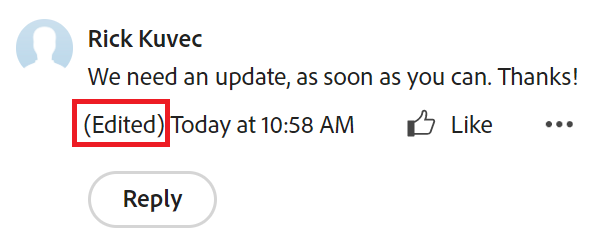
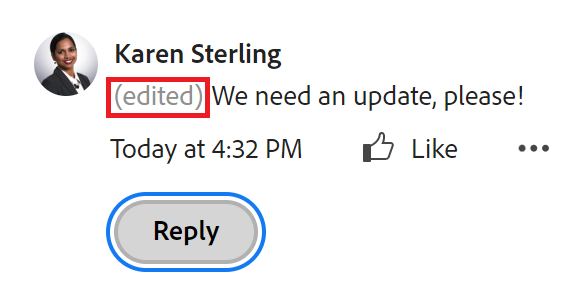
commit-aw-31-may

diff --git a/help/quicksilver/timesheets/create-and-manage-timesheets/log-time.md b/help/quicksilver/timesheets/create-and-manage-timesheets/log-time.md
@@ -344,6 +344,19 @@ In order to log hours on a project, task, or issue, you need to have specific pe
 
 ##### Updates tab{#updates-tab} 
 
+<!--
+
+>[!NOTE]
+>
+>When enabling the new commenting Beta experience, logging time is available only for the following objects in the following environments:
+>
+>* In the Preview and Production environments for issues. 
+>* <span class="preview">In the Preview environment for tasks and projects.</span> 
+>
+>For more information, see [New commenting experience](../../product-announcements/betas/new-commenting-experience-beta/unified-commenting-experience.md).
+
+--> 
+
 The following are required before you can log hours on the Updates tab of a project, task, or issue:
 
 * You must have a Work or Plan license.
@@ -352,6 +365,34 @@ The following are required before you can log hours on the Updates tab of a proj
 
 * If you want to log time directly to a project, your Workfront administrator must enable the Log time directly on projects setting under [!UICONTROL **Timesheet & Hours** ]> [!UICONTROL **Preferences**].  
   For more information about allowing users to log hours directly to projects, see [Configure timesheet and hour preferences](../../administration-and-setup/set-up-workfront/configure-timesheets-schedules/timesheet-and-hour-preferences.md).
+
+To log time in the Updates tab of a project, task, or issue:
+
+1. Go to a project, task, or issue.
+1. In the left panel, select **Updates**.
+1. Click **Log Time**.
+
+   The Enter Hours dialog box displays. 
+   
+   >[!TIP]
+   >
+   >   If your profile's preference is set to log time in days, the Enter Days box displays. 
+   >   
+   >   There is an indication in the upper-right corner of the Enter Days box of how many hours are included in a day. 
+
+   ![](assets/log-time-box-in-updates-stream.png)
+
+1. Specify the following information:
+
+   * **Hour Type**: Select an Hour Type from the drop-down menu, if it is different from the one displayed by default.
+
+     Depending on what hour types are configured in your system, the options here might vary. For more information about configuring hour types, see [Define hour types and availability for timesheets](../../timesheets/create-and-manage-timesheets/define-hour-types-and-availability.md).
+
+   * **Job Role**: (Conditional) If your Workfront or group administrator has enabled the **Assign job roles to hour entries manually** setting, select a **Job Role** from the drop-down menu. The Role specified when you are assigned to the object displays by default. If you are not assigned a Role on the object, your Primary Role displays as the default. For more information on this setting, see the article [Configure timesheet and hour preferences](../../administration-and-setup/set-up-workfront/configure-timesheets-schedules/timesheet-and-hour-preferences.md).
+
+   * **Hours**: Enter the number of hours for the project, task, or issue.
+
+1. Click **Log Time**.
 
 ##### Hours tab{#hours-tab}
 
@@ -365,9 +406,9 @@ Or you must have all of the following:
 * You must have at least Contribute permissions to the project with access to Log Hours. For more information about granting permissions on projects, see [Share a project in Adobe Workfront](../../workfront-basics/grant-and-request-access-to-objects/share-a-project.md).
 * If you want to log time directly to a project, your Workfront administrator must enable the Log time directly on projects setting under Timesheet & Hours > Preferences. For more information about allowing users to log hours directly to projects, see [Configure timesheet and hour preferences](../../administration-and-setup/set-up-workfront/configure-timesheets-schedules/timesheet-and-hour-preferences.md).
 
-To log time on a project, task, or issue:
+To log time in the Hours tab of a project, task, or issue:
 
-1. Navigate to a project, task, or issue.
+1. Go to a project, task, or issue.
 1. In the left panel, select **Hours**.
 1. Click **Log Time**.
 

diff --git a/help/quicksilver/workfront-basics/updating-work-items-and-viewing-updates/updates-tab-overview.md b/help/quicksilver/workfront-basics/updating-work-items-and-viewing-updates/updates-tab-overview.md
@@ -21,9 +21,9 @@ exl-id: f8bf374f-703d-416a-9f36-28a6708620bc
 >For more information about the new commenting experience, see [New commenting experience](../../product-announcements/betas/new-commenting-experience-beta/unified-commenting-experience.md). 
 >
 >You can access the new experience for the following objects:
-> * Issues, when enabling the commenting Beta.
+> * Issues, <!--<span class="preview">projects, tasks, and documents</span>,--> when enabling the commenting Beta. 
 >
->     This functionality is available only for the Updates section of issues, and it is not available for the following areas:
+>     This functionality is available only for the Updates section, and it is not available for the following areas:
 >
 >     * Home
 >     * Summary panel in lists
@@ -103,7 +103,7 @@ Currenlty, you can make comments and reply to updates using the Beta commenting 
      <li><p>Goals</p>
      <p>This is the default experience for goals</p>
      </li> 
-     </ul> </td> 
+      </ul> </td> 
    <td> 
     <ul> 
      <li>Issues</li> 
@@ -112,11 +112,50 @@ Currenlty, you can make comments and reply to updates using the Beta commenting 
  </tbody> 
 </table>
 
+<!--replace table above with this: 
+
+<table style="table-layout:auto"> 
+ <col> 
+ <col> 
+ <tbody> 
+  <tr> 
+   <td> 
+    <ul> 
+     <li><p>Goals</p>
+     <p>This is the default experience for goals</p>
+     </li> 
+     <li><span class="preview">Projects</span></li>
+     </ul> </td> 
+   <td> 
+    <ul> 
+     <li>Issues</li> 
+     <li><span class="preview">Tasks</span></li>
+     <li><span class="preview">Documents</span></li>
+     </ul> </td> 
+  </tr> 
+ </tbody> 
+</table>
+-->
+
 ## Updates that also appear on higher-rank objects
 
-As shown in the following table, replies made to updates on certain objects also appear on the Updates section of higher-ranked objects.
+Comments or replies made to updates on certain objects also appear on the Updates section of higher-ranked objects.
 
 For example, when you add an update to a task, the update appears on the Updates section for the task and on the Updates section for the project containing the task.
+
+<!--
+>[!NOTE]
+>
+>When enabling the new commenting Beta experience, comments display on the following higher-ranking objects and in the following environments: 
+>
+>* Issues, in the Preview and Production environments
+>* <span class="preview">Projects and tasks, in the Preview environment</span>
+>
+>For more information, see [New commenting experience](../../product-announcements/betas/new-commenting-experience-beta/unified-commenting-experience.md). 
+
+--> 
+
+The following table shows the objects whose comments also display on their higher-ranking objects: 
 
 <table style="table-layout:auto"> 
  <col> 

diff --git a/help/quicksilver/product-announcements/betas/new-commenting-experience-beta/new-commenting-beta-experience-release-activity.md b/help/quicksilver/product-announcements/betas/new-commenting-experience-beta/new-commenting-beta-experience-release-activity.md
@@ -21,6 +21,51 @@ For general information on the new commenting beta experience, including a list 
 
 The following sections list features that have been added after the original release, starting with the ones released most recently. 
 
+## Week of May 29, 2023
+
+### New look and feel of the "edited" tag after editing a comment 
+
+When editing a comment in the new commenting Beta experience, an "edited" tag is added to the comment. This tag now has a newer look and feel than the one originally released. The date and time stamps of the comment are those of the original comment. They are not the date and time stamps of when the edit was made.  For more information, see [Update work](../../../workfront-basics/updating-work-items-and-viewing-updates/update-work.md). 
+
+Preview: May 31, 2023
+
+Production: June 1, 2023
+
+<!--
+
+### Comments from children objects now roll up to a parent object  
+
+When enabling the commenting Beta experience, the comments associated with a child object now roll up to the parent object. For example, comments from documents now display on the issue where the documents are attached. For information, see [Update section overview](../../../workfront-basics/updating-work-items-and-viewing-updates/updates-tab-overview.md). 
+
+Preview, for issues, projects, and tasks: June 1, 2023  
+
+Production, for issues: June 1, 2023 
+
+Production, for projects, and tasks: with the 23.3 release 
+--> 
+
+<!--
+### Log time in the new commenting Beta experience 
+
+You can log time for issues, tasks, and projects from the Updates area, when using the new commenting Beta experience. For more information, see [Log time](../../../timesheets/create-and-manage-timesheets/log-time.md).  
+
+Preview: June 1, 2023 
+
+Production: June 15, 2023
+
+-->
+
+<!--
+
+### New commenting Beta experience for projects, tasks, and issues  
+
+The new commenting Beta experience is now available for projects, tasks, and documents. Prior to this update, the commenting Beta experience was available only for issues and goals.  
+
+Preview: June 1, 2023 
+
+Production: with the 23.3 release 
+--> 
+
 ## Week of May 15, 2023
 
 ### Improved experience when adding hyperlinks to comments

diff --git a/help/quicksilver/workfront-basics/updating-work-items-and-viewing-updates/update-work.md b/help/quicksilver/workfront-basics/updating-work-items-and-viewing-updates/update-work.md
@@ -20,9 +20,9 @@ exl-id: 0f4d6895-6326-4a83-9bbc-bb58c876e7fc
 >For more information about the new commenting experience, see [New commenting experience](../../product-announcements/betas/new-commenting-experience-beta/unified-commenting-experience.md). 
 >
 >You can access the new experience for the following objects:
-> * Issues, when enabling the commenting Beta.
+> * Issues, <!--<span class="preview">projects, tasks, and documents</span>,--> when enabling the commenting Beta.
 >
->     This functionality is available only for the Updates section of issues, and it is not available for the following areas:
+>     This functionality is available only for the Updates section, and it is not available for the following areas:
 >
 >     * Home
 >     * Summary panel in lists
@@ -223,7 +223,8 @@ Adding an update to a work item differs depending on what version of the Updates
 
    >[!TIP]
    >
-   >   An email is generated to notify users of your update only when you submit the original update. No email is generated after you edited your update.
+   >* An email is generated to notify users of your update only when you submit the original update. No email is generated after you edited your update.
+   >* The date stamp next to the comment is the date of the original comment, not the date of the last edit. 
 
 1. (Optional) Click **Reply** to reply to an existing comment, then follow the steps 4-7 above. <!--(**************insure this stays accurate***********)-->. For information about replying to an update, see [Reply to updates](../../workfront-basics/updating-work-items-and-viewing-updates/reply-to-updates.md).
 1. (Conditional and optional) If other users have added comments that display outside of the visible area in the Updates section, click **View** inside the blue **new comments banner** at the bottom of the screen  to display these comments.

diff --git a/help/quicksilver/workfront-basics/updating-work-items-and-viewing-updates/reply-to-updates.md b/help/quicksilver/workfront-basics/updating-work-items-and-viewing-updates/reply-to-updates.md
@@ -20,9 +20,9 @@ exl-id: a8271f3c-7a08-4eb3-aaff-deb250f5af73
 >For more information about the new commenting experience, see [New commenting experience](../../product-announcements/betas/new-commenting-experience-beta/unified-commenting-experience.md). 
 >
 >You can access the new experience for the following objects:
-> * Issues, when enabling the commenting Beta.
+> * Issues, <!--<span class="preview">projects, tasks, and documents</span>,--> when enabling the commenting Beta.
 >
->     This functionality is available only for the Updates section of issues, and it is not available for the following areas:
+>     This functionality is available only for the Updates section, and it is not available for the following areas:
 >
 >     * Home
 >     * Summary panel in lists
@@ -35,6 +35,10 @@ exl-id: a8271f3c-7a08-4eb3-aaff-deb250f5af73
 >    For information about commenting on goals, see [Manage goal comments in Adobe    Workfront Goals](../../workfront-goals/goal-management/manage-goal-comments.md). 
 
 When someone replies to a comment or a system update on a work object, their reply appears in the communication thread in the Updates section for the object. 
+
+>[!IMPORTANT]
+>
+>It is not possible to reply to system updates in the new commenting Beta experience. For more information, see [New commenting experience](../../product-announcements/betas/new-commenting-experience-beta/unified-commenting-experience.md).
 
 
 ## Access requirements

diff --git a/help/quicksilver/workfront-basics/updating-work-items-and-viewing-updates/reply-to-email-notifications.md b/help/quicksilver/workfront-basics/updating-work-items-and-viewing-updates/reply-to-email-notifications.md
@@ -2,14 +2,20 @@
 product-area: projects
 navigation-topic: update-work-items-and-view-updates
 title: Reply to email notifications
-description: Make comments on objects without logging in to Adobe Workfront. You can respond to Workfront email that is generated from comments made to projects, tasks, issues, and other objects.
+description: You can make comments on objects without logging in to Adobe Workfront. You can respond to Workfront email that is generated from comments made to projects, tasks, issues, and other objects.
 author: Lisa and Alina
 feature: Get Started with Workfront
 exl-id: fea88410-8f37-49d0-9f5d-9fbac4ab5de6
 ---
 # Reply to email notifications
 
-Make comments on objects without logging in to Adobe Workfront. You can respond to Workfront email that is generated from comments made to the following objects:
+You can make comments on objects without logging in to Adobe Workfront. 
+
+>[!NOTE]
+>
+>Replying to updates by email is not available for environments on Cluster 6.
+
+You can respond to Workfront email that is generated from comments made to the following objects:
 
 * Project
 * Task
@@ -25,6 +31,4 @@ Make comments on objects without logging in to Adobe Workfront. You can respond 
 >
 >To avoid submission errors, Outlook users should delete the existing email content before typing your reply.
 
->[!NOTE]
->
->Replying to updates by email is not available for environments on Cluster 6.
+

diff --git a/help/quicksilver/workfront-goals/goal-management/manage-goal-comments.md b/help/quicksilver/workfront-goals/goal-management/manage-goal-comments.md
@@ -154,13 +154,15 @@ This opens the goal list.
       
 1. (Optional) To edit a comment, click the **More** menu ![](assets/more-icon.png) to the right of the Like icon, then click **Edit**. 
 1. Edit the information in the comment, add or remove images, or remove any of the tagged users. 
-   You can edit your comment within 15 minutes from submitting it. An "Edited" indicator is added to the left of the date stamp that displays when the comment was updated.
+   You can edit your comment within 15 minutes from submitting it. An "edited" indicator is added to the left of the date stamp that displays when the comment was updated.
 
    ![](assets/edited-tag-on-comment-unified-commenting.png)
 
    >[!TIP]
    >
-   > An email is generated to notify users of your update only when you submit the original update. No email is generated after you edited your update.
+   > * An email is generated to notify users of your update only when you submit the original update. No email is generated after you edited your update.
+   >
+   > * The date stamp is the date of the original comment and not the date of the latest update. 
 
    1. (Optional) Click the **More** menu ![](assets/more-icon.png), then click any of the following options to copy information from a comment to the clipboard:
 

diff --git a/help/quicksilver/product-announcements/betas/new-commenting-experience-beta/unified-commenting-experience.md b/help/quicksilver/product-announcements/betas/new-commenting-experience-beta/unified-commenting-experience.md
@@ -255,13 +255,13 @@ The following table illustrates the features that will be available in the new c
    </td>
    <td>✓ 
    </td>
-   <td> 
+   <td> ✓
    </td>
    <td> 
    </td>
    <td> 
    </td>
-   <td>✓ 
+   <td> 
    </td>
   </tr>
   <tr>
@@ -376,6 +376,21 @@ The following table illustrates the features that will be available in the new c
    <td>✓ 
    </td>
   </tr>
+
+<tr>
+   <td>Reply to system updates 
+   </td>
+   <td> ✓
+   </td>
+   <td> 
+   </td>
+   <td> 
+   </td>
+   <td>
+   </td>
+   <td> 
+   </td>
+  </tr>
 </table>
 
 ## New commenting beta experience release activity
@@ -388,7 +403,7 @@ The new commenting experience is currently supported for the following objects, 
 
 * When enabling the Beta experience in the Updates section: 
 
-    * Issues 
+    * Issues<!--, <span class="preview">projects, tasks, and documents</span>-->
 
     For more information about managing updates for Workfront objects, see [Update work](../../../workfront-basics/updating-work-items-and-viewing-updates/update-work.md). 
  

diff --git a/help/quicksilver/workfront-basics/updating-work-items-and-viewing-updates/tag-others-on-updates.md b/help/quicksilver/workfront-basics/updating-work-items-and-viewing-updates/tag-others-on-updates.md
@@ -21,9 +21,9 @@ exl-id: c4c0d74f-ac50-4fc5-89d6-28f004c25b29
 >For more information about the new commenting experience, see [New commenting experience](../../product-announcements/betas/new-commenting-experience-beta/unified-commenting-experience.md). 
 >
 >You can access the new experience for the following objects:
-> * Issues, when enabling the commenting Beta.
+> * Issues, <!--<span class="preview">projects, tasks, and documents</span>,--> when enabling the commenting Beta.
 >
->     This functionality is available only for the Updates section of issues, and it is not available for the following areas:
+>     This functionality is available only for the Updates section, and it is not available for the following areas:
 >
 >     * Home
 >     * Summary panel in lists
